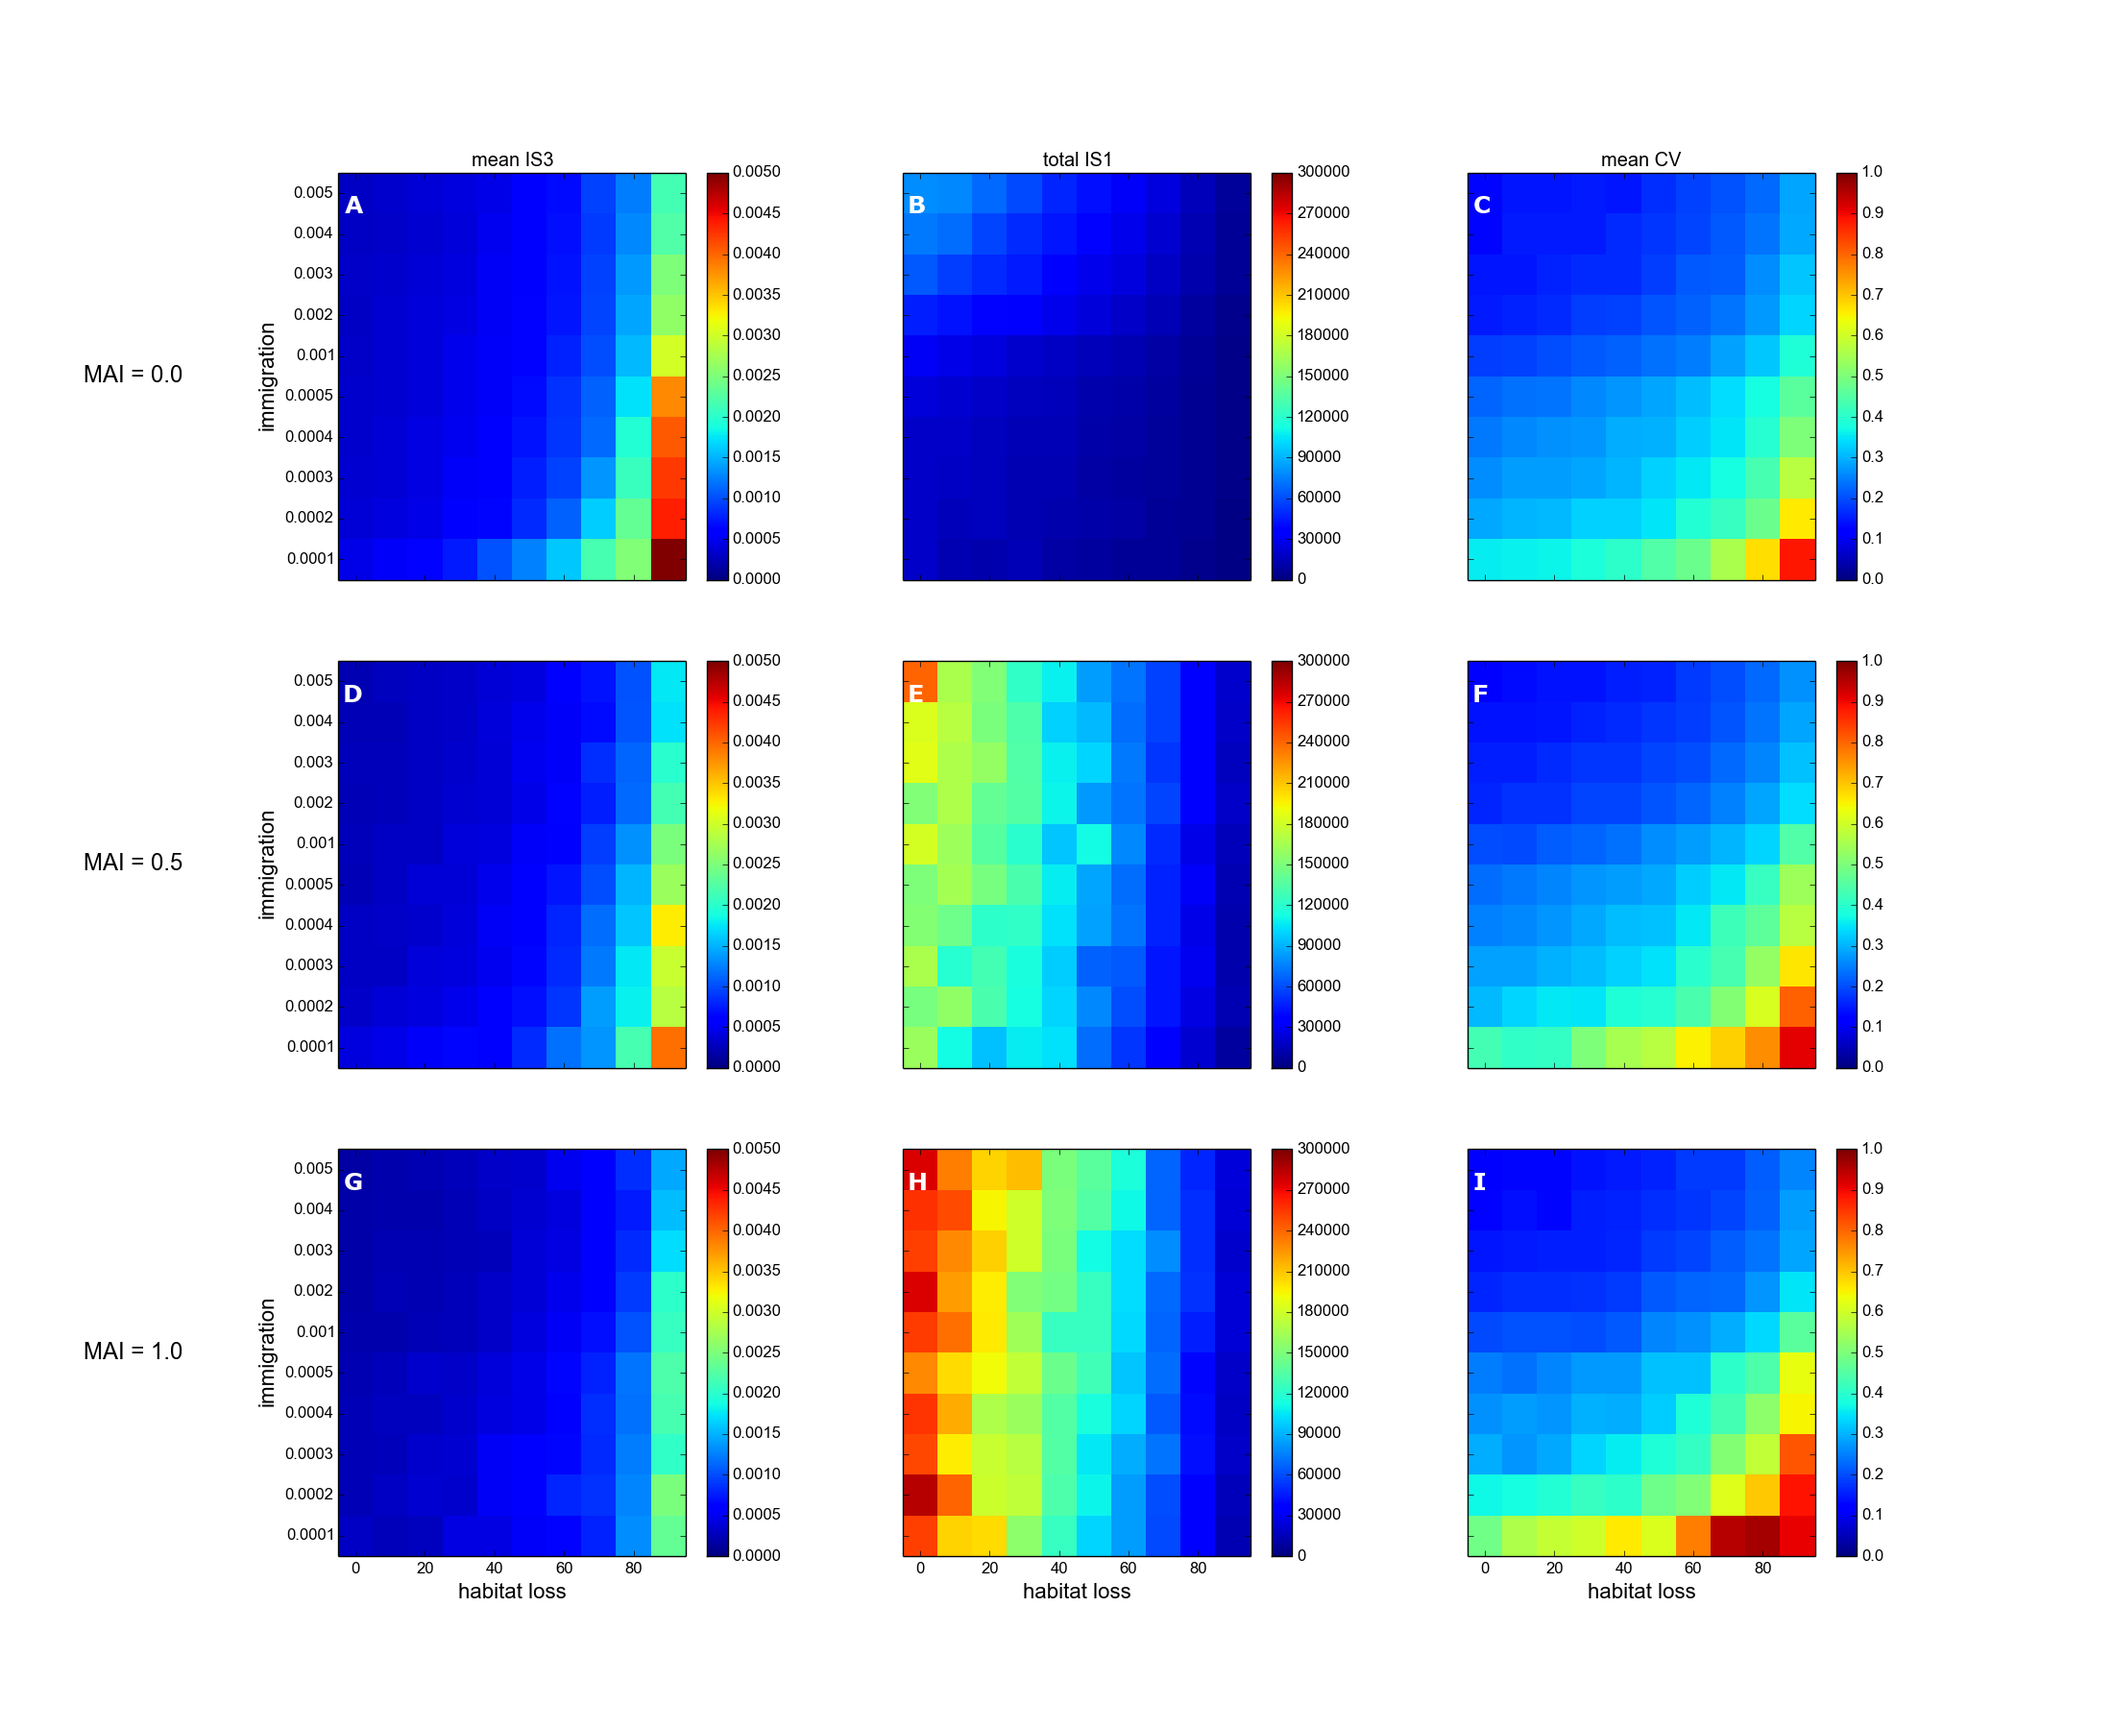
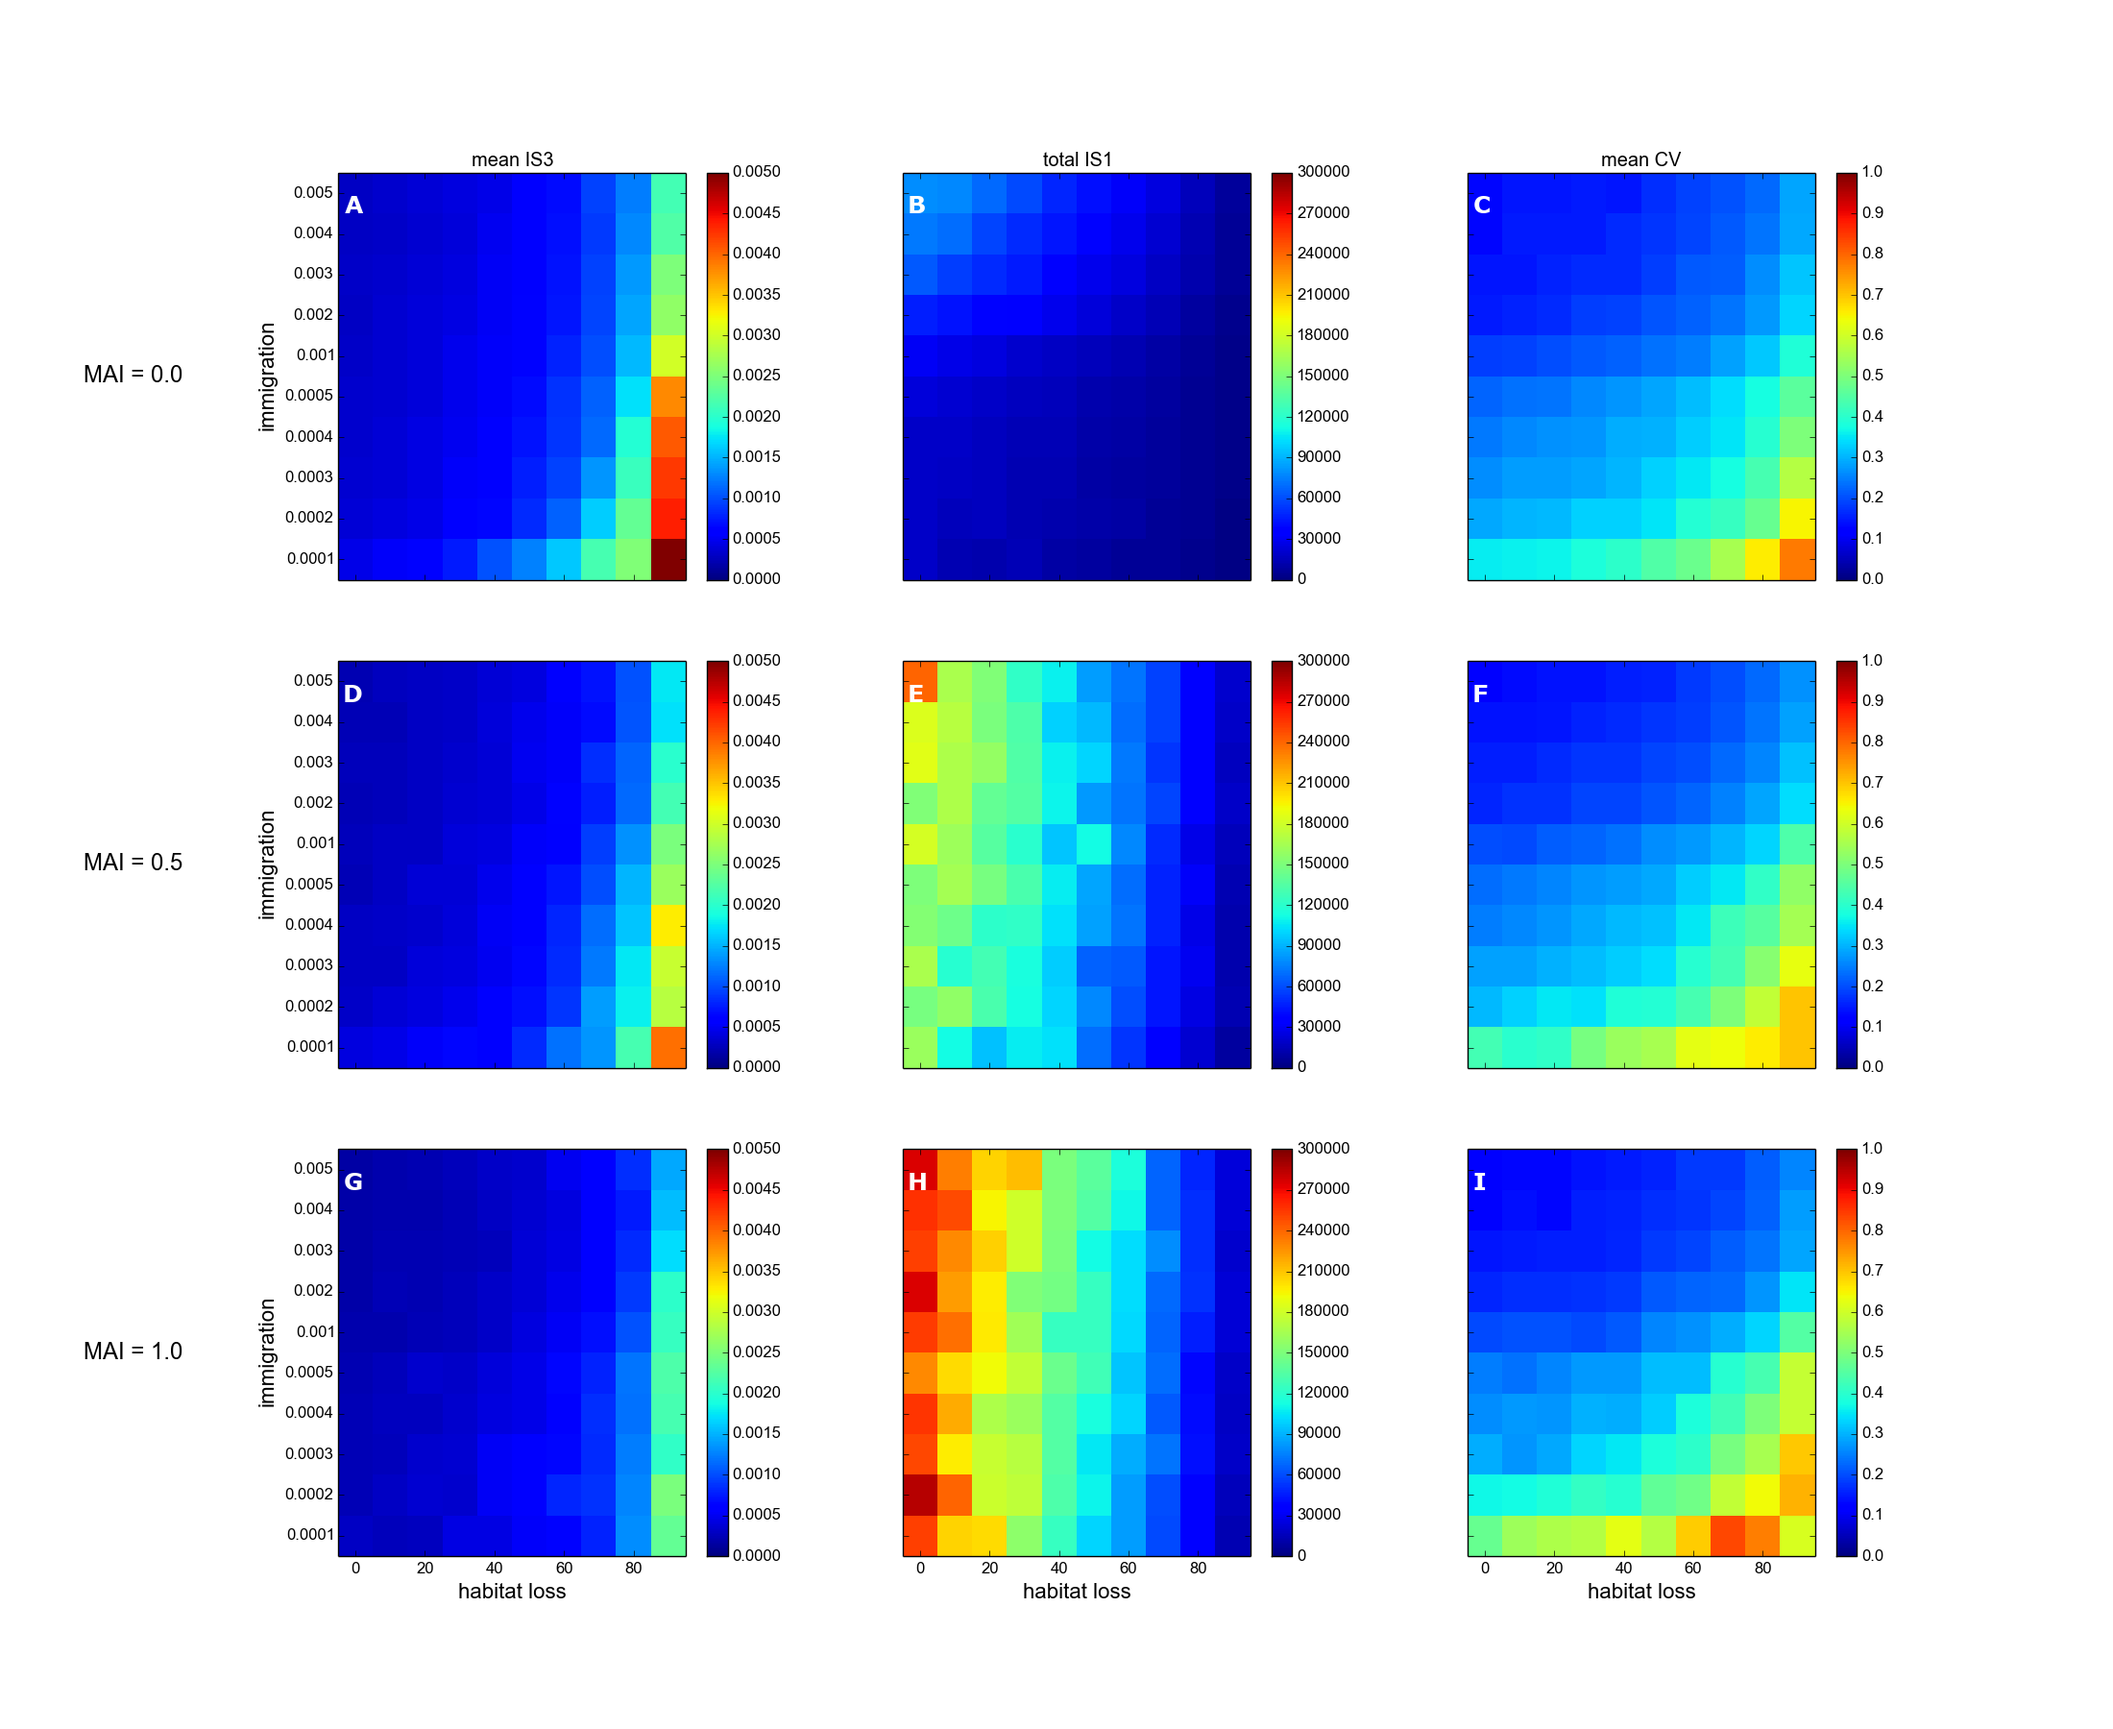
Nice new plots

Changed region(s): [[0.7418, 0.7778, 0.8655, 0.9022], [0.8036, 0.5289, 0.8655, 0.6222], [0.8345, 0.3111, 0.8655, 0.3422]]

diff --git a/plot_heatmap3.py b/plot_heatmap3.py
@@ -1,8 +1,8 @@
 import matplotlib.pyplot as plt
 import numpy as np
 
-strad = '_AVERAGE_4000'
-#strad = ''
+#strad = '_AVERAGE_4000'
+strad = ''
 
 rows = 3
 cols = 3

diff --git a/plot_heatmap_inv.py b/plot_heatmap_inv.py
@@ -1,8 +1,8 @@
 import matplotlib.pyplot as plt
 import numpy as np
 
-strad = '_AVERAGE_4000'
-#strad = ''
+#strad = '_AVERAGE_4000'
+strad = ''
 
 rows = 3
 cols = 3
